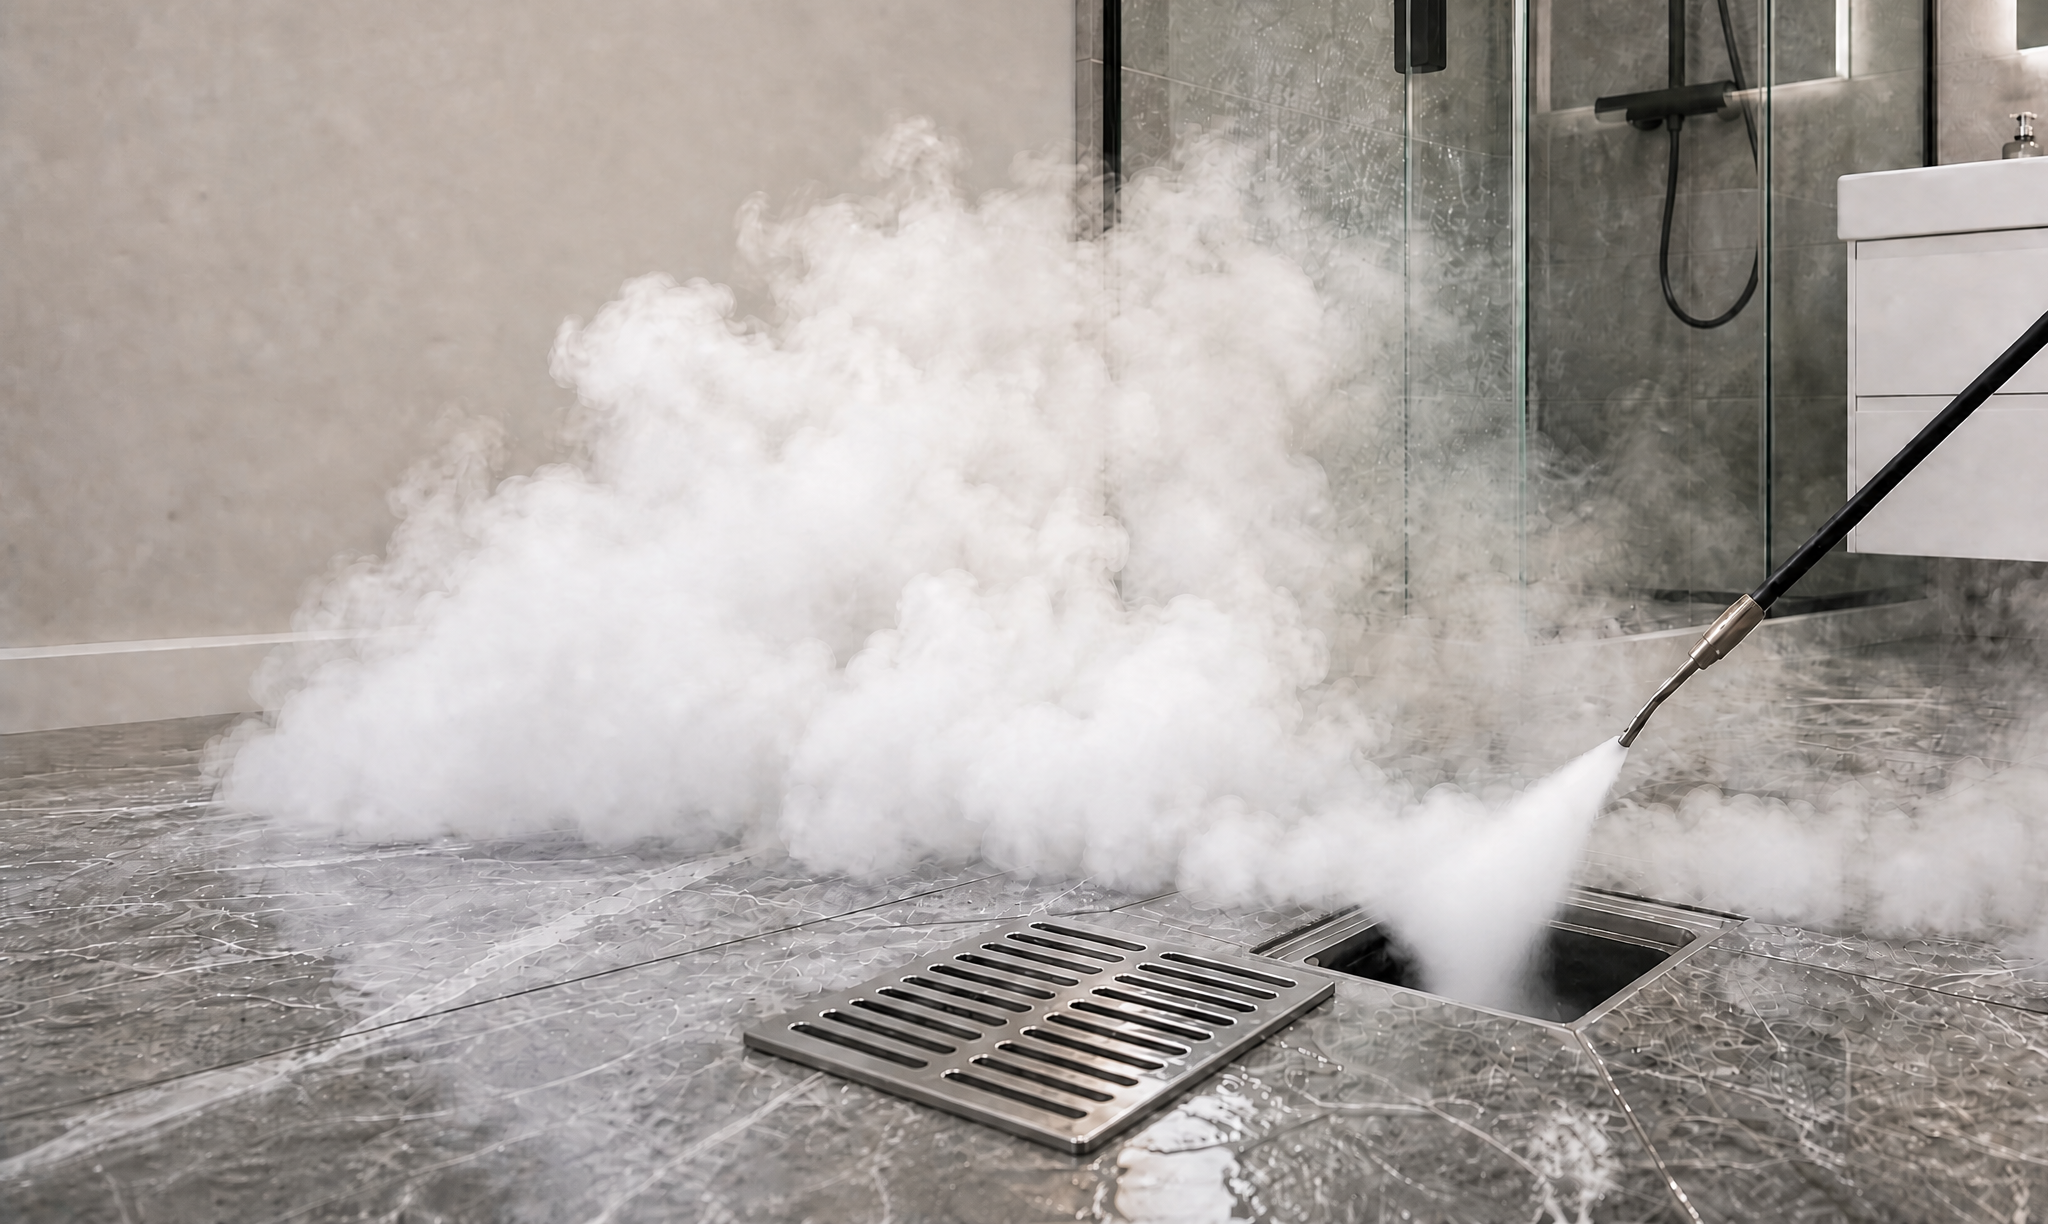
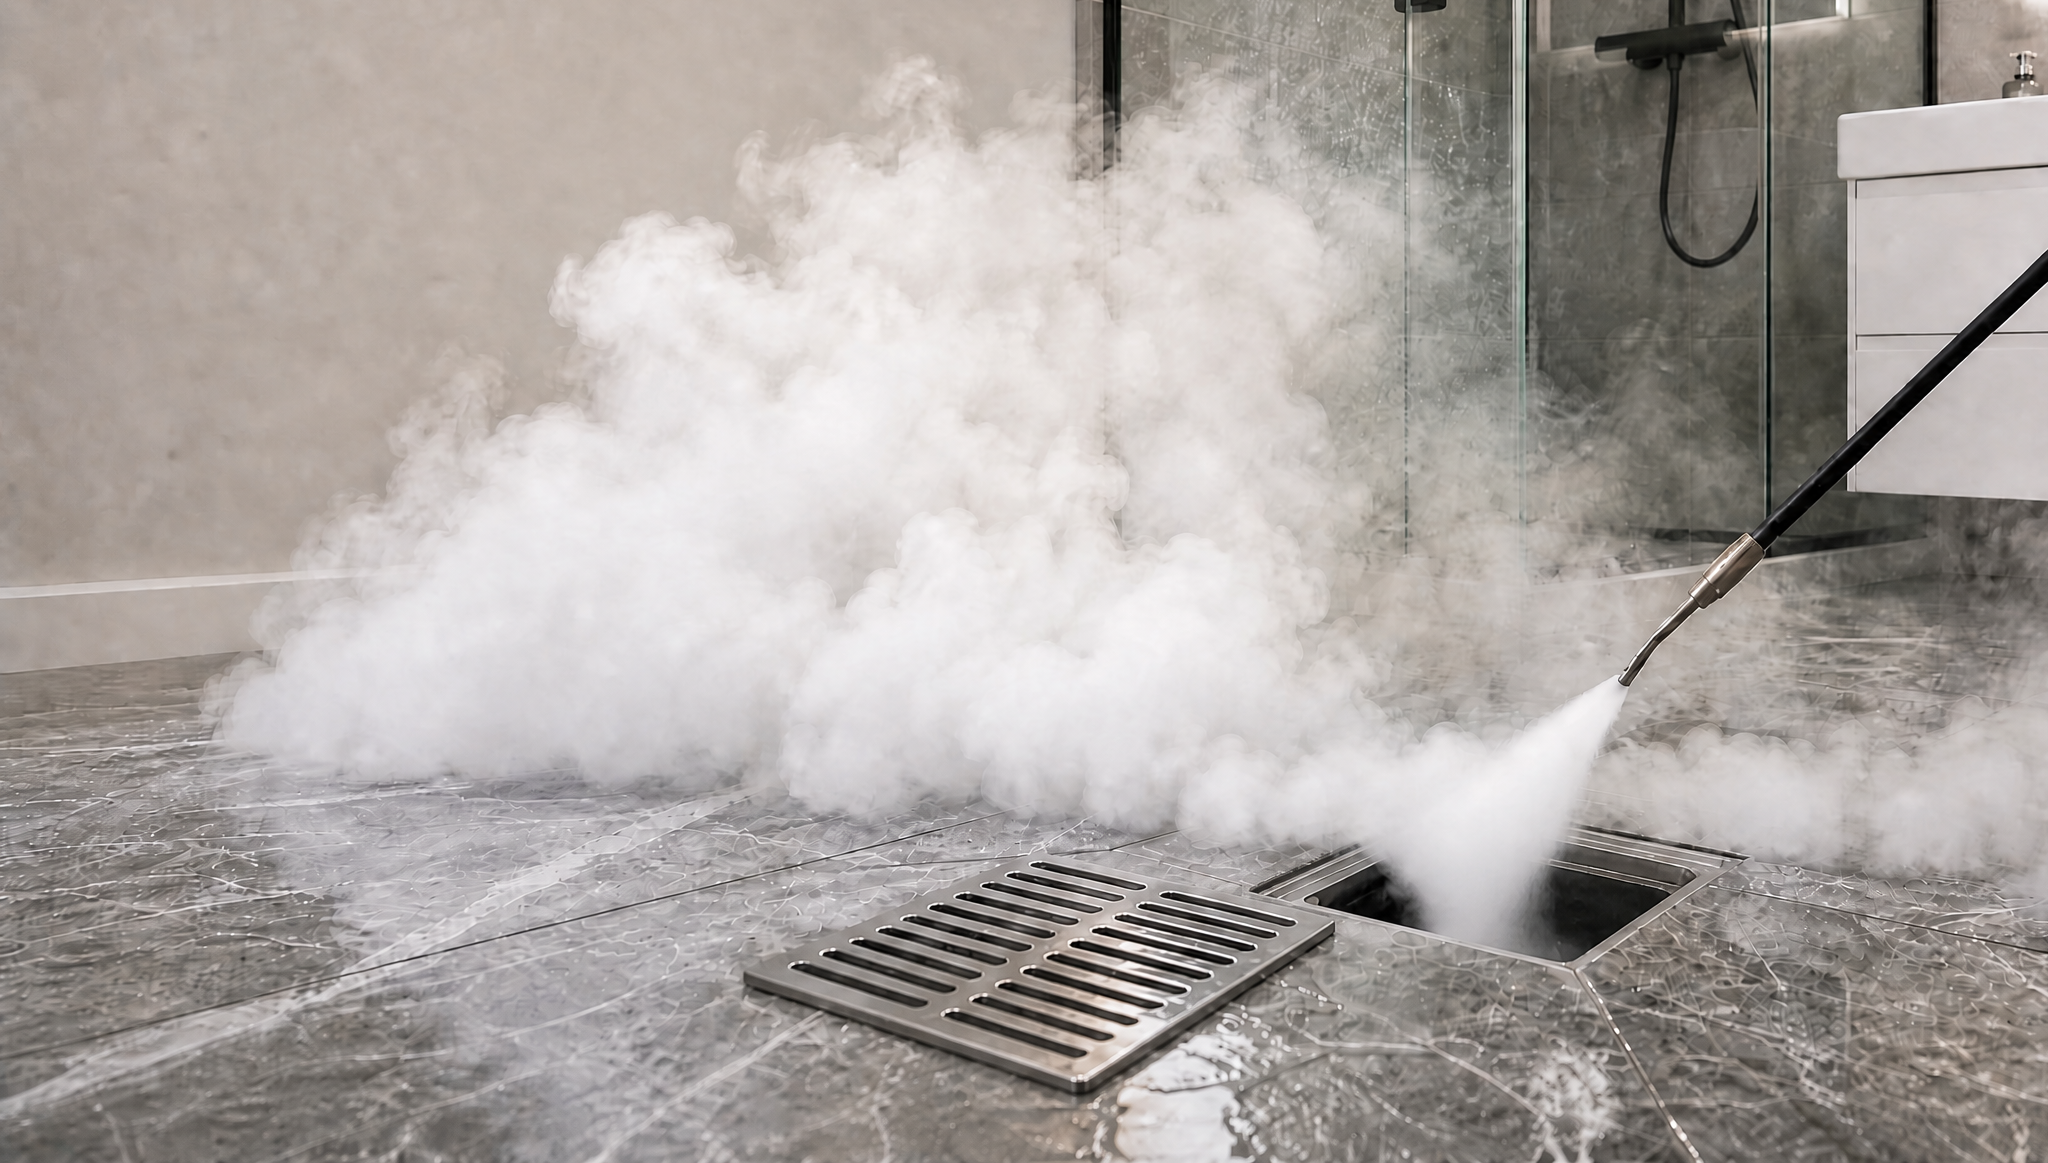
히어로 배너 이미지 상단 5% 추가 크롭, 비율 업데이트

diff --git a/app/globals.css b/app/globals.css
@@ -343,7 +343,7 @@
 .quote-indent{display:inline-block;padding-left:2.6em}
 .hero-banner{display:none}
 @media(min-width:761px){
-  .hero-banner{display:block;width:100%;aspect-ratio:2048/1224;overflow:hidden;margin:0;position:relative}
+  .hero-banner{display:block;width:100%;aspect-ratio:2048/1163;overflow:hidden;margin:0;position:relative}
   .hero-banner img{width:100%;height:100%;object-fit:cover;display:block;object-position:center center}
   .hero-banner figcaption{position:absolute;left:0;bottom:0;min-width:210px;padding:24px 30px;background:var(--deep);color:#fff;display:flex;flex-direction:column;gap:7px}
   .hero-banner figcaption b{font-family:"MaruBuri","Noto Serif KR",serif;font-size:22px;font-weight:600}
